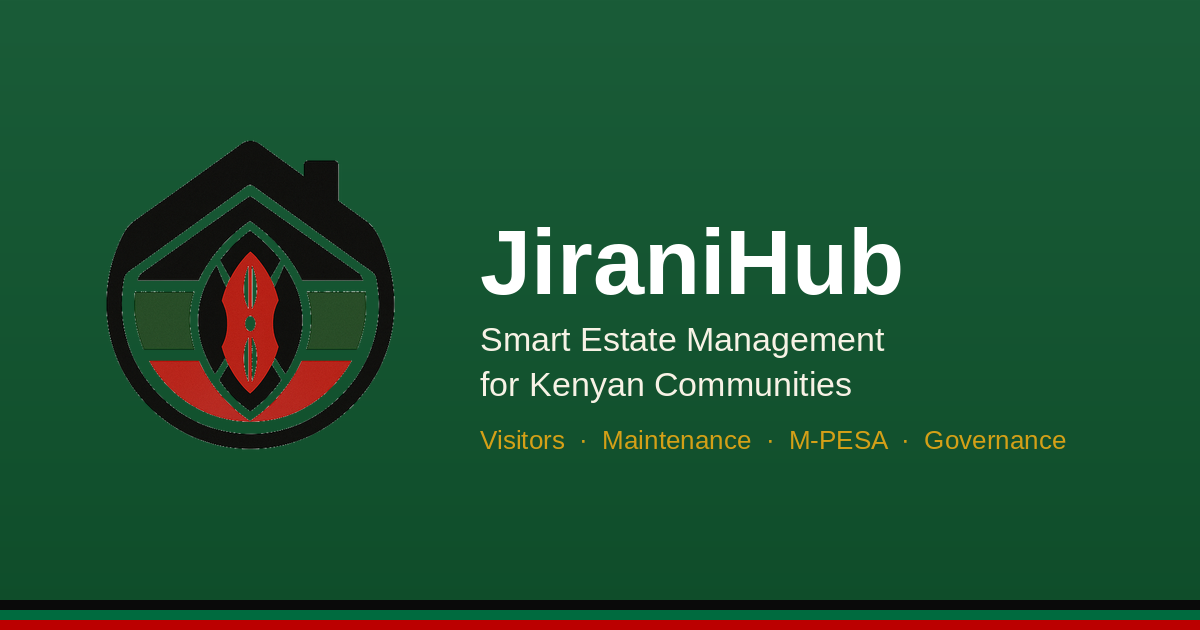
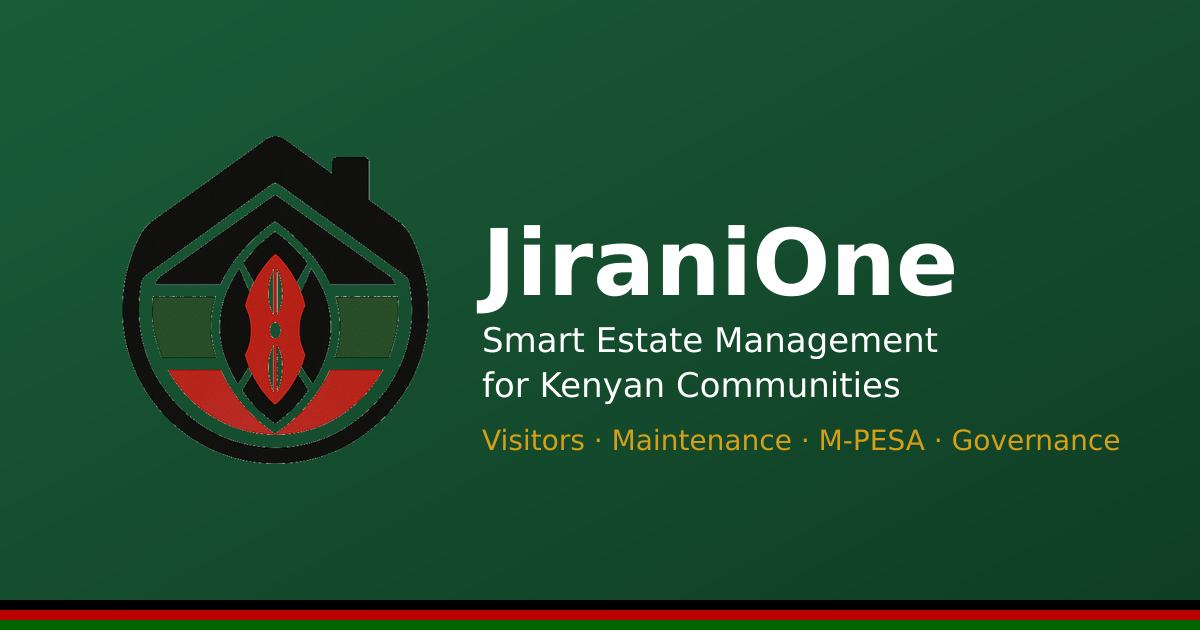
Rebrand: JiraniHub → JiraniOne
Following the brand-constants groundwork, the actual rename is the
one-file change it was designed to be: BRAND_NAME/SMS_SENDER_ID in
shared/brand.ts, plus the two image assets that had the old wordmark
baked in (og-image.png and brand/logo-full.webp), regenerated from the
same source mark with identical layout and colours. Logo mark, icons,
palette, and theme are unchanged.

Deliberately still on jiranihub.* infrastructure (documented in
brand.ts): support/privacy/legal emails, PRIMARY_URL, and the
CORS/CSP origin list — the JiraniOne domains and mailboxes don't exist
yet. Those move in a follow-up once the domain is registered and DNS is
live, keeping old origins until the redirect is permanent. The
carrier-registered SMS sender ID also needs re-registration with
Africa's Talking to match.

Verified: typecheck, 52/52 tests, production build (title + manifest
confirmed "JiraniOne"), and a Playwright pass on landing/login/terms —
rendered text contains zero "JiraniHub" and renders the new name
correctly; OG card visually inspected against the old layout.

diff --git a/shared/brand.ts b/shared/brand.ts
@@ -16,13 +16,18 @@
 // - Netlify site name, GitHub repo name, and DNS are infrastructure, not
 //   code.
 
-export const BRAND_NAME = "JiraniHub";
+export const BRAND_NAME = "JiraniOne";
 export const BRAND_TAGLINE = "Smart Estate Management for Kenyan Communities";
 export const BRAND_TAGLINE_SHORT = "Smart estate management · Kenya";
 
 // Registered company name as it appears in legal copy (Terms/Privacy).
 export const COMPANY_NAME = `${BRAND_NAME} Ltd.`;
 
+// Emails and URLs below deliberately stay on jiranihub.* infrastructure —
+// the JiraniOne domains/mailboxes don't exist yet. Once jiranione.co.ke
+// (or equivalent) is registered, DNS is live, and mail is set up, update
+// these and append the new origins to PRODUCTION_ORIGINS (keeping the old
+// ones until the redirect is permanent).
 export const SUPPORT_EMAIL = "support@jiranihub.co.ke";
 export const PRIVACY_EMAIL = "privacy@jiranihub.co.ke";
 export const LEGAL_EMAIL = "legal@jiranihub.co.ke";
@@ -45,5 +50,6 @@ export const PRODUCTION_ORIGINS = [
 ] as const;
 
 // SMS sender name prefix used in message bodies (distinct from the
-// carrier-registered alphanumeric sender ID, though they should match).
-export const SMS_SENDER_ID = "JiraniHub";
+// carrier-registered alphanumeric sender ID, though they should match —
+// register "JiraniOne" with Africa's Talking when updating the account).
+export const SMS_SENDER_ID = "JiraniOne";
